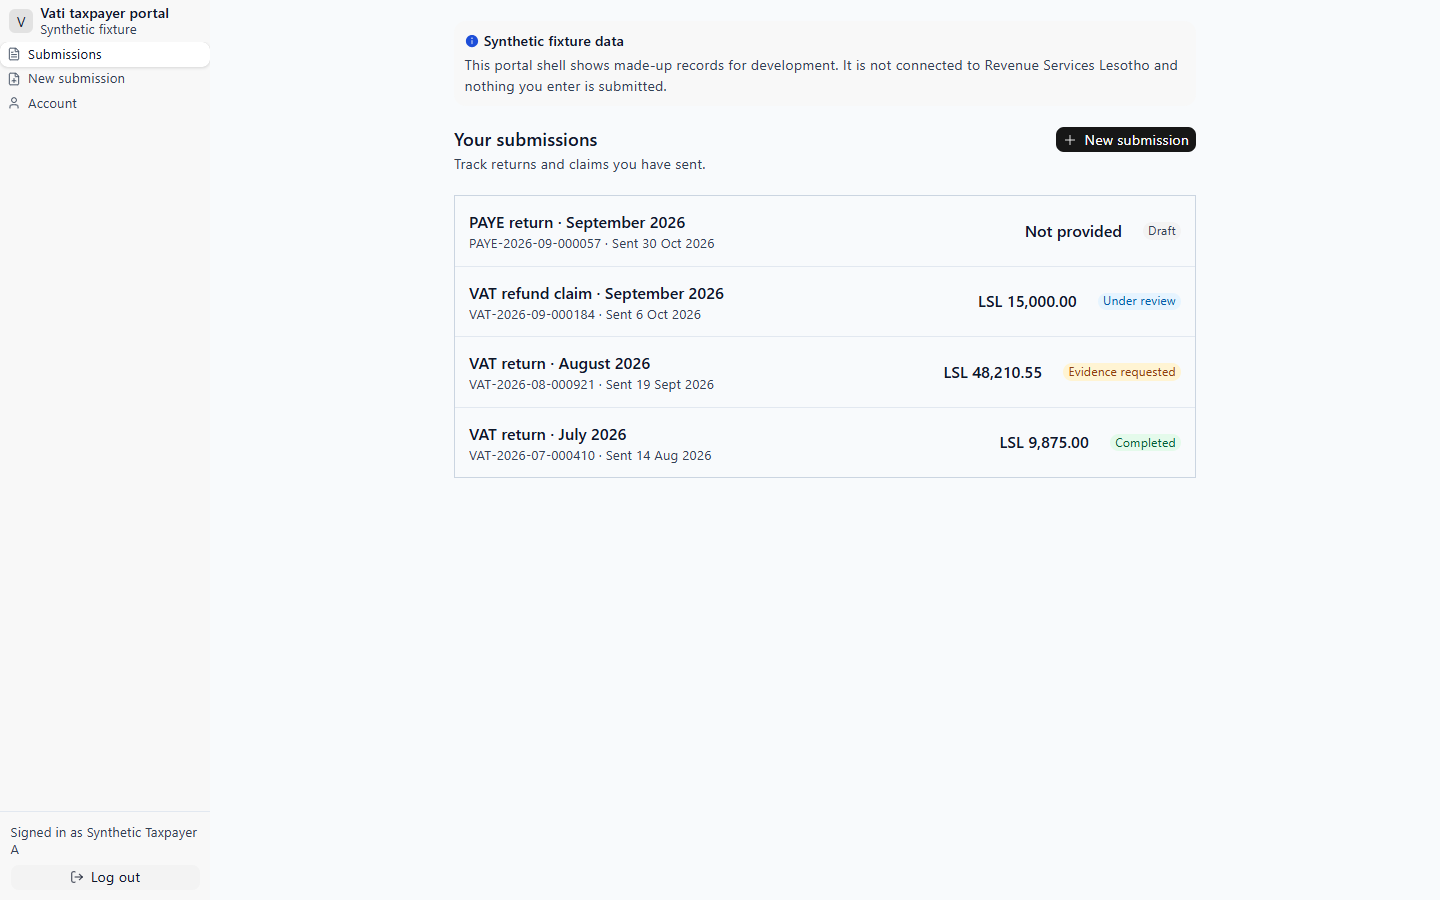
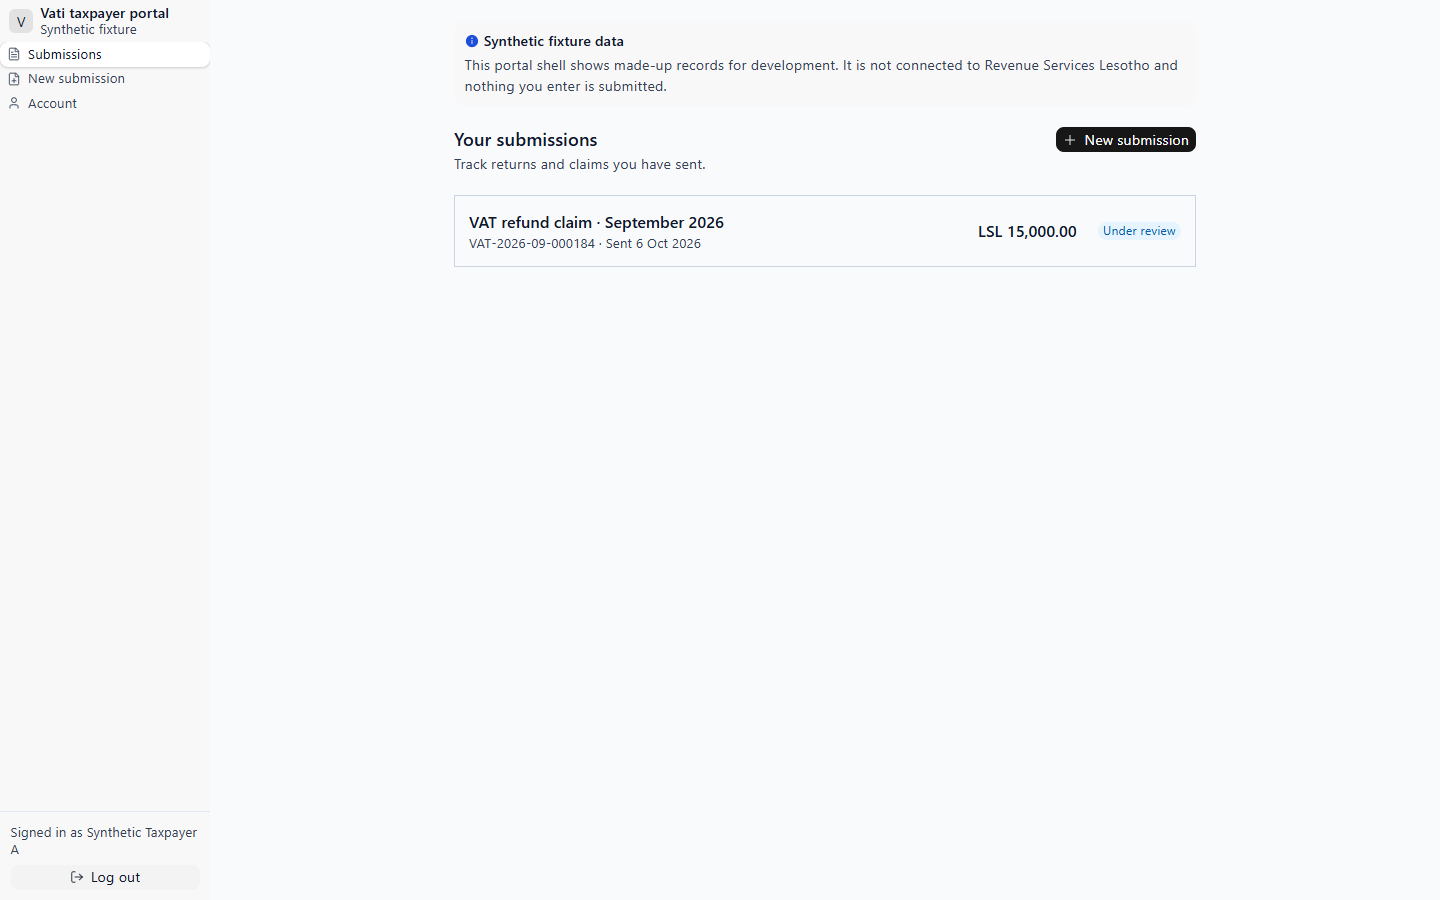
test(TAX-023): follow TAX-029 taxpayer scope in session mocks and refresh evidence

diff --git a/tests/frontend/support/sessions.ts b/tests/frontend/support/sessions.ts
@@ -3,13 +3,12 @@
  * only inside the test browser; no Frappe site, account or password is used.
  *
  * Taxpayer portal: `vati_tax.portal.api.*` calls are answered in the browser
- * using the same records the Frappe app serves (vati_tax/portal/fixtures.py,
- * loaded below so the two cannot drift). Response shapes follow Frappe v16:
- * success is `{ message }`, a refused call is HTTP 403 with `exc_type`.
- *
- * Personas describe session states, not RSL roles. Taxpayer roles and tenant
- * permissions are defined by TAX-029; until then `denied` stands in for "a
- * signed-in user whom the portal API refuses".
+ * from the records and ownership rules the Frappe app uses
+ * (vati_tax/portal/fixtures.py, called below so the two cannot drift).
+ * Response shapes follow Frappe v16: success is `{ message }`, a refused call
+ * is HTTP 403 with `exc_type`. Access follows TAX-029 (docs/PERMISSIONS.md):
+ * only a user with a taxpayer membership is served, and only their own
+ * taxpayer's submissions; another taxpayer's submission is "not found".
  *
  * Auditor workspace: the fixture API (scripts/fixture_api.py) has one signed-in
  * officer principal scoped to one synthetic tenant. Personas choose whether
@@ -21,13 +20,24 @@ import type { Page, Route } from '@playwright/test';
 
 const root = path.resolve(__dirname, '../../..');
 
-/** Synthetic Website User shown by the portal mocks. Not a real account. */
+/**
+ * The synthetic taxpayer user from docs/PERMISSIONS.md: a taxpayer membership in
+ * the fixture tenant for the taxpayer that owns SUB-SYN-0001. Not a real account.
+ */
 export const SYNTHETIC_TAXPAYER = {
   user: 'taxpayer.a@example.test',
   full_name: 'Synthetic Taxpayer A',
+  taxpayer_id: '80015243-dd34-4e97-b085-7356ffdd042f',
 } as const;
 
-export type TaxpayerPersona = 'taxpayer' | 'guest' | 'denied';
+/**
+ * - `taxpayer`: signed in with the membership above.
+ * - `guest`: not signed in; Frappe refuses every portal method with 403.
+ * - `no-membership`: signed in, but not linked to a taxpayer; refused with 403.
+ * - `revoked`: the portal loaded, then the membership was removed, so data calls
+ *   are refused while the app still holds the earlier session.
+ */
+export type TaxpayerPersona = 'taxpayer' | 'guest' | 'no-membership' | 'revoked';
 export type AuditorPersona = 'officer' | 'denied';
 
 interface PortalSubmission {
@@ -35,22 +45,40 @@ interface PortalSubmission {
   [key: string]: unknown;
 }
 
-function loadPortalFixtures(): PortalSubmission[] {
+interface PortalFixtures {
+  /** Every fixture ID, owned by anyone. */
+  all_ids: string[];
+  /** list_submissions(scope) for SYNTHETIC_TAXPAYER. */
+  visible: PortalSubmission[];
+}
+
+function loadPortalFixtures(): PortalFixtures {
   const script = [
     'import importlib.util, json, sys',
     "spec = importlib.util.spec_from_file_location('fixtures', sys.argv[1])",
-    'module = importlib.util.module_from_spec(spec)',
-    'spec.loader.exec_module(module)',
-    'print(json.dumps(module.list_submissions()))',
+    'm = importlib.util.module_from_spec(spec)',
+    'spec.loader.exec_module(m)',
+    'scope = [(m.FIXTURE_TENANT_ID, sys.argv[2])]',
+    "print(json.dumps({'all_ids': [s['id'] for s in m.SUBMISSIONS],",
+    "                  'visible': m.list_submissions(scope)}))",
   ].join('\n');
   const file = path.join(root, 'backend/vati_tax/vati_tax/portal/fixtures.py');
-  const out = execFileSync(process.env.PYTHON ?? 'python3', ['-c', script, file], {
-    encoding: 'utf8',
-  });
-  return JSON.parse(out) as PortalSubmission[];
+  const out = execFileSync(
+    process.env.PYTHON ?? 'python3',
+    ['-c', script, file, SYNTHETIC_TAXPAYER.taxpayer_id],
+    { encoding: 'utf8' },
+  );
+  return JSON.parse(out) as PortalFixtures;
 }
 
-export const PORTAL_SUBMISSIONS = loadPortalFixtures();
+const fixtures = loadPortalFixtures();
+
+/** Submissions the synthetic taxpayer may see (their own). */
+export const PORTAL_SUBMISSIONS = fixtures.visible;
+/** A fixture submission owned by another taxpayer, which must stay concealed. */
+export const OTHER_TAXPAYER_SUBMISSION_ID = fixtures.all_ids.find(
+  (id) => !PORTAL_SUBMISSIONS.some((s) => s.id === id),
+)!;
 
 const FIXTURE = { mode: 'fixture', synthetic: true } as const;
 
@@ -93,27 +121,28 @@ export async function mockTaxpayerSession(
     const url = new URL(route.request().url());
     const method = url.pathname.replace(/^\/api\/method\//, '');
     mock.calls.push(method);
-    const guest = mock.persona === 'guest';
+    const p = mock.persona;
 
     if (method === 'logout') {
       mock.persona = 'guest';
       return ok(route, null);
     }
     if (method === 'vati_tax.portal.api.get_session') {
-      // Guests: the method is not guest-whitelisted, so Frappe answers 403.
-      return guest
-        ? refused(route, 'PermissionError', 403, 'Not permitted')
-        : ok(route, { ...FIXTURE, ...SYNTHETIC_TAXPAYER });
+      if (p === 'guest') return refused(route, 'PermissionError', 403, 'Not permitted');
+      if (p === 'no-membership')
+        return refused(route, 'PermissionError', 403, 'This account is not linked to a taxpayer.');
+      const { user, full_name } = SYNTHETIC_TAXPAYER;
+      return ok(route, { ...FIXTURE, user, full_name });
+    }
+    if (p !== 'taxpayer' && method.startsWith('vati_tax.portal.api.')) {
+      return refused(route, 'PermissionError', 403, 'This account is not linked to a taxpayer.');
     }
     if (method === 'vati_tax.portal.api.get_submissions') {
-      return mock.persona === 'taxpayer'
-        ? ok(route, { ...FIXTURE, data: PORTAL_SUBMISSIONS })
-        : refused(route, 'PermissionError', 403, 'Not permitted');
+      return ok(route, { ...FIXTURE, data: PORTAL_SUBMISSIONS });
     }
     if (method === 'vati_tax.portal.api.get_submission') {
-      if (mock.persona !== 'taxpayer')
-        return refused(route, 'PermissionError', 403, 'Not permitted');
       const body = (route.request().postDataJSON() ?? {}) as { submission_id?: string };
+      // As find_submission(id, scope): another taxpayer's record is concealed.
       const item = PORTAL_SUBMISSIONS.find((x) => x.id === body.submission_id);
       return item
         ? ok(route, { ...FIXTURE, data: item })

diff --git a/tests/frontend/taxpayer.spec.ts b/tests/frontend/taxpayer.spec.ts
@@ -8,7 +8,15 @@ import {
 } from './support/checks';
 import { TAXPAYER } from './support/env';
 import { isMobile, TAXPAYER_ROUTES } from './support/matrix';
-import { mockTaxpayerSession, PORTAL_SUBMISSIONS, SYNTHETIC_TAXPAYER } from './support/sessions';
+import {
+  mockTaxpayerSession,
+  OTHER_TAXPAYER_SUBMISSION_ID,
+  PORTAL_SUBMISSIONS,
+  SYNTHETIC_TAXPAYER,
+} from './support/sessions';
+
+// The synthetic taxpayer's own submission (SUB-SYN-0001 per docs/PERMISSIONS.md).
+const own = PORTAL_SUBMISSIONS[0] as { id: string; reference: string; tax_type: string };
 
 // The desktop sidebar and the mobile bottom bar share this accessible name.
 const nav = (page: Page) => page.getByRole('navigation', { name: 'Taxpayer portal' });
@@ -27,9 +35,9 @@ test.describe('taxpayer portal', () => {
       PORTAL_SUBMISSIONS.length,
     );
 
-    await page.getByRole('link', { name: /VAT-2026-08-000921/ }).click();
-    await expect(page).toHaveURL(/\/taxpayer\/submissions\/SUB-SYN-0002$/);
-    await pageReady(page, /^VAT return · /);
+    await page.getByRole('link', { name: new RegExp(own.reference) }).click();
+    await expect(page).toHaveURL(new RegExp(`/taxpayer/submissions/${own.id}$`));
+    await pageReady(page, new RegExp(`^${own.tax_type} · `));
     await expect(page.getByText('What happens next')).toBeVisible();
 
     await page.getByRole('link', { name: 'Submissions', exact: true }).first().click();
@@ -51,17 +59,42 @@ test.describe('taxpayer portal', () => {
     page,
   }) => {
     const mock = await mockTaxpayerSession(page, 'guest');
-    await page.goto(TAXPAYER + '/taxpayer/submissions/SUB-SYN-0002');
-    await expect(page).toHaveURL(/\/login\?redirect-to=%2Ftaxpayer%2Fsubmissions%2FSUB-SYN-0002$/);
+    await page.goto(TAXPAYER + `/taxpayer/submissions/${own.id}`);
+    await expect(page).toHaveURL(
+      new RegExp(`/login\\?redirect-to=%2Ftaxpayer%2Fsubmissions%2F${own.id}$`),
+    );
     await expect(page.getByRole('heading', { level: 1, name: 'Login' })).toBeVisible();
     // Only the session check ran: no submission data was requested for a guest.
     expect(mock.calls).toEqual(['vati_tax.portal.api.get_session']);
   });
 
-  test('denied access: a signed-in user refused by the API sees no submissions', async ({
+  test('denied access: a signed-in user without a taxpayer membership is refused', async ({
     page,
   }) => {
-    await mockTaxpayerSession(page, 'denied');
+    const mock = await mockTaxpayerSession(page, 'no-membership');
+    await page.goto(TAXPAYER + '/taxpayer/submissions');
+    // The client treats a refused session as no portal session and leaves for login;
+    // the Frappe page guard (TAX-029) already answers such users with 403.
+    await expect(page).toHaveURL(/\/login\?redirect-to=%2Ftaxpayer%2Fsubmissions$/);
+    expect(mock.calls).toEqual(['vati_tax.portal.api.get_session']);
+  });
+
+  test("denied access: another taxpayer's submission is concealed as not found", async ({
+    page,
+  }) => {
+    await mockTaxpayerSession(page, 'taxpayer');
+    await page.goto(TAXPAYER + `/taxpayer/submissions/${OTHER_TAXPAYER_SUBMISSION_ID}`);
+    await pageReady(page, 'Submission not found');
+    // frappe-ui renders a routed Button as a link.
+    const back = { name: 'Back to submissions' };
+    await expect(page.getByRole('link', back).or(page.getByRole('button', back))).toBeVisible();
+    await expect(page.getByText('What happens next')).toHaveCount(0);
+  });
+
+  test('denied access: a membership revoked after loading shows no submissions', async ({
+    page,
+  }) => {
+    await mockTaxpayerSession(page, 'revoked');
     await page.goto(TAXPAYER + '/taxpayer/submissions');
     await pageReady(page, 'Your submissions');
     await expect(page.getByText('Access denied')).toBeVisible();

diff --git a/tests/frontend/visual.spec.ts b/tests/frontend/visual.spec.ts
@@ -3,7 +3,11 @@ import { expect, test, type Page } from '@playwright/test';
 import { pageReady } from './support/checks';
 import { AUDITOR, TAXPAYER } from './support/env';
 import { AUDITOR_ROUTES, TAXPAYER_ROUTES, type MatrixRoute } from './support/matrix';
-import { mockAuditorAccess, mockTaxpayerSession } from './support/sessions';
+import {
+  mockAuditorAccess,
+  mockTaxpayerSession,
+  OTHER_TAXPAYER_SUBMISSION_ID,
+} from './support/sessions';
 
 // Visual checks at every matrix width, in two opt-in modes:
 //
@@ -54,7 +58,10 @@ test('taxpayer screens and denied states', async ({ page }, testInfo) => {
     await visit(page, TAXPAYER, route);
     await check(page, `taxpayer-${route.name}-${w}`);
   }
-  mock.persona = 'denied';
+  await page.goto(TAXPAYER + `/taxpayer/submissions/${OTHER_TAXPAYER_SUBMISSION_ID}`);
+  await pageReady(page, 'Submission not found');
+  await check(page, `taxpayer-other-taxpayer-${w}`);
+  mock.persona = 'revoked';
   await page.goto(TAXPAYER + '/taxpayer/submissions');
   await expect(page.getByText('Access denied')).toBeVisible();
   await check(page, `taxpayer-denied-${w}`);

diff --git a/tests/frontend/support/matrix.ts b/tests/frontend/support/matrix.ts
@@ -62,7 +62,12 @@ export const AUDITOR_ROUTES: MatrixRoute[] = [
 
 export const TAXPAYER_ROUTES: MatrixRoute[] = [
   { name: 'submissions', path: '/taxpayer/submissions', heading: 'Your submissions' },
-  { name: 'submission', path: '/taxpayer/submissions/SUB-SYN-0002', heading: /^VAT return · / },
+  // SUB-SYN-0001: owned by the synthetic taxpayer user (docs/PERMISSIONS.md, TAX-029).
+  {
+    name: 'submission',
+    path: '/taxpayer/submissions/SUB-SYN-0001',
+    heading: /^VAT refund claim · /,
+  },
   { name: 'new-submission', path: '/taxpayer/submissions/new', heading: 'New submission' },
   { name: 'account', path: '/taxpayer/account', heading: 'Account' },
   { name: 'not-found', path: '/taxpayer/no-such-page', heading: 'Page not found' },

diff --git a/docs/evidence/TAX-023/README.md b/docs/evidence/TAX-023/README.md
@@ -10,36 +10,42 @@ password was used.
 
 - Windows 11, Microsoft Edge 156.0.4314.50 (`PLAYWRIGHT_CHANNEL=msedge`),
   Playwright 1.64.1, axe-core via @axe-core/playwright 4.14.0.
-- Branch `task/TAX-023` merged with `main` at c1acc2a (includes TAX-040 auditor
-  queue/profile and the #106 reassignment).
+- Branch `task/TAX-023` merged with current `main` (includes TAX-040 auditor
+  queue/profile, TAX-029 taxpayer roles and tenant permissions, and the #106
+  reassignment).
 - Auditor: built app (`npm run build:auditor`) on `vite preview`, `/api` from
   the synthetic fixture server `scripts/dev.py` (unchanged).
 - Taxpayer: Vite dev server; portal API answered by the session mocks in
-  `tests/frontend/support/sessions.ts` using the records from
-  `backend/vati_tax/vati_tax/portal/fixtures.py`.
+  `tests/frontend/support/sessions.ts`, which call `list_submissions(scope)`
+  from `backend/vati_tax/vati_tax/portal/fixtures.py` for the synthetic
+  taxpayer user documented in docs/PERMISSIONS.md (owner of SUB-SYN-0001).
 
 ## Results (`results.json`)
 
-`npm run test:frontend:browser`: **60 passed, 0 failed, 0 flaky**; 9 skipped are
-the opt-in visual tests (run separately below). Three consecutive full runs on
-2026-11-04 gave the same result; `results.json` is the last run.
+`npm run test:frontend:browser`: **66 passed, 0 failed, 0 flaky**; the 9 skipped
+are the opt-in visual tests (run separately below). `results.json` is the
+Playwright JSON report of that run, summarised (run started
+2026-11-04T09:29Z). Runs on the final merged branch are listed in the PR.
 
 | Spec               | 1440px | 1024px | 390px |
 | ------------------ | ------ | ------ | ----- |
 | `auditor.spec.ts`  | 9/9    | 9/9    | 9/9   |
-| `taxpayer.spec.ts` | 11/11  | 11/11  | 11/11 |
+| `taxpayer.spec.ts` | 13/13  | 13/13  | 13/13 |
 
 Covered at every width:
 
 - **Positive navigation** — auditor: overview → My case queue → SYN-002 →
-  taxpayer profile → back → breadcrumb to queue. Taxpayer: list → submission
-  status → breadcrumb → new submission → account.
-- **Denied access** — auditor: requests for another synthetic tenant are
-  refused by the fixture API (403 `tenant_scope_denied`) on the queue, case and
-  taxpayer pages; "You do not have access" is shown and no taxpayer data or
-  Request evidence action appears. Taxpayer: a guest is sent to
+  taxpayer profile → back → breadcrumb to queue. Taxpayer: list → own
+  submission status → breadcrumb → new submission → account.
+- **Denied access, auditor** — requests for another synthetic tenant are
+  refused by the fixture API itself (403 `tenant_scope_denied`) on the queue,
+  case and taxpayer pages; "You do not have access" is shown and no taxpayer
+  data or Request evidence action appears.
+- **Denied access, taxpayer (TAX-029 rules)** — a guest is sent to
   `/login?redirect-to=/taxpayer/...` and only the session check is called; a
-  signed-in user refused by the API sees "Access denied" and no submissions;
+  signed-in user without a taxpayer membership is refused and sent to login;
+  another taxpayer's submission is concealed as "Submission not found"; a
+  membership revoked after loading shows "Access denied" and no submissions;
   after logout a revisit goes to login.
 - **Keyboard** — first Tab focuses a visible "Skip to main content" link and
   Enter moves into the main region; sidebar/bottom-bar links show a visible
@@ -52,14 +58,16 @@ Covered at every width:
 ## Screenshots
 
 `CAPTURE_SCREENSHOTS=1 npm run test:frontend:browser -- visual` (7 passed; the 2
-skipped are the focus captures, which run at 1440px only). Full-page captures at
-1440, 1024 and 390px:
+skipped are the focus captures, which run at 1440px only). 41 full-page
+captures, all from the run on 2026-11-04 after the TAX-029 merge, at 1440, 1024
+and 390px:
 
 - Auditor: `auditor-overview`, `auditor-queue`, `auditor-case-detail`,
   `auditor-taxpayer`, `auditor-not-found`, `auditor-denied` (another tenant).
-- Taxpayer: `taxpayer-submissions`, `taxpayer-submission`,
-  `taxpayer-new-submission`, `taxpayer-account`, `taxpayer-not-found`,
-  `taxpayer-denied` (API refused).
+- Taxpayer: `taxpayer-submissions` (own submission only),
+  `taxpayer-submission`, `taxpayer-new-submission`, `taxpayer-account`,
+  `taxpayer-not-found`, `taxpayer-other-taxpayer` (concealed as not found),
+  `taxpayer-denied` (membership revoked after loading).
 - Keyboard focus (1440px): `auditor-focus-skip-link-1440.png`,
   `taxpayer-focus-first-invalid-1440.png`.
 
@@ -82,10 +90,10 @@ skipped are the focus captures, which run at 1440px only). Full-page captures at
 - These are harness results, not visual approval. Human review of the
   screenshots is still required; `tests/frontend/baselines/` is intentionally
   empty.
-- Taxpayer access tests cover the client-side guard with mocked Frappe
-  responses. The server-side page guard is covered by
-  `vati_tax/portal/test_access.py` and the live TAX-021 evidence. Taxpayer roles
-  and tenants are TAX-029.
+- Taxpayer access tests exercise the client with mocked Frappe responses that
+  follow TAX-029. The server-side rules are covered by
+  `vati_tax/portal/test_access.py`; a user without a taxpayer membership is
+  refused by the Frappe page guard before the app loads.
 - On Windows, `scripts/dev.py` can truncate the largest built auditor asset
   under parallel requests (observed: about 3 in 4 rounds lost the end of a
   310 KB file over HTTP/1.0 connection-close; keep-alive did not). The harness

diff --git a/tests/frontend/README.md b/tests/frontend/README.md
@@ -56,12 +56,17 @@ responses are small JSON and still come from it, including its access rules.
 Everything is answered inside the test browser; no account or password exists.
 
 - **Taxpayer portal**: `vati_tax.portal.api.*` and `/login` are intercepted.
-  Submission records are read from `backend/vati_tax/vati_tax/portal/fixtures.py`
-  so they match what the Frappe app serves. Responses follow Frappe v16 shapes
-  (`{ message }`, or HTTP 403 with `exc_type`). Personas:
-  - `taxpayer`: signed-in synthetic Website User `taxpayer.a@example.test`.
-  - `guest`: no session; every portal method is refused with 403.
-  - `denied`: signed in, but the portal API refuses submission data.
+  Records come from `list_submissions(scope)` in
+  `backend/vati_tax/vati_tax/portal/fixtures.py`, so the mock follows the
+  same TAX-029 ownership rules as the Frappe app. Responses follow Frappe v16
+  shapes (`{ message }`, or HTTP 403 with `exc_type`). Personas:
+  - `taxpayer`: `taxpayer.a@example.test` with the taxpayer membership from
+    docs/PERMISSIONS.md; sees only SUB-SYN-0001, and another taxpayer's
+    submission is "not found".
+  - `guest`: not signed in; every portal method is refused with 403.
+  - `no-membership`: signed in but not linked to a taxpayer; refused with 403.
+  - `revoked`: the portal loaded, then the membership was removed; data calls
+    are refused.
 - **Auditor workspace**: the fixture API (`scripts/fixture_api.py`, TAX-040)
   has one signed-in officer principal scoped to one synthetic tenant. Nothing
   is faked in the browser:
@@ -69,11 +74,9 @@ Everything is answered inside the test browser; no account or password exists.
   - `denied`: requests select another synthetic tenant, so the fixture API
     itself answers 403 `tenant_scope_denied`.
 
-Personas are session states, not RSL roles. Taxpayer roles and tenant
-permissions arrive in TAX-029; extend the personas then rather than inventing
-roles here. The taxpayer guest test covers the client-side guard; the server
-page guard is covered by `vati_tax/portal/test_access.py` and the live TAX-021
-evidence.
+Personas mirror the documented TAX-029 rules (docs/PERMISSIONS.md); do not
+invent roles here. The taxpayer tests cover the client; the server page guard
+and API scope are covered by `vati_tax/portal/test_access.py`.
 
 ## Accessibility scan and known issues
 
